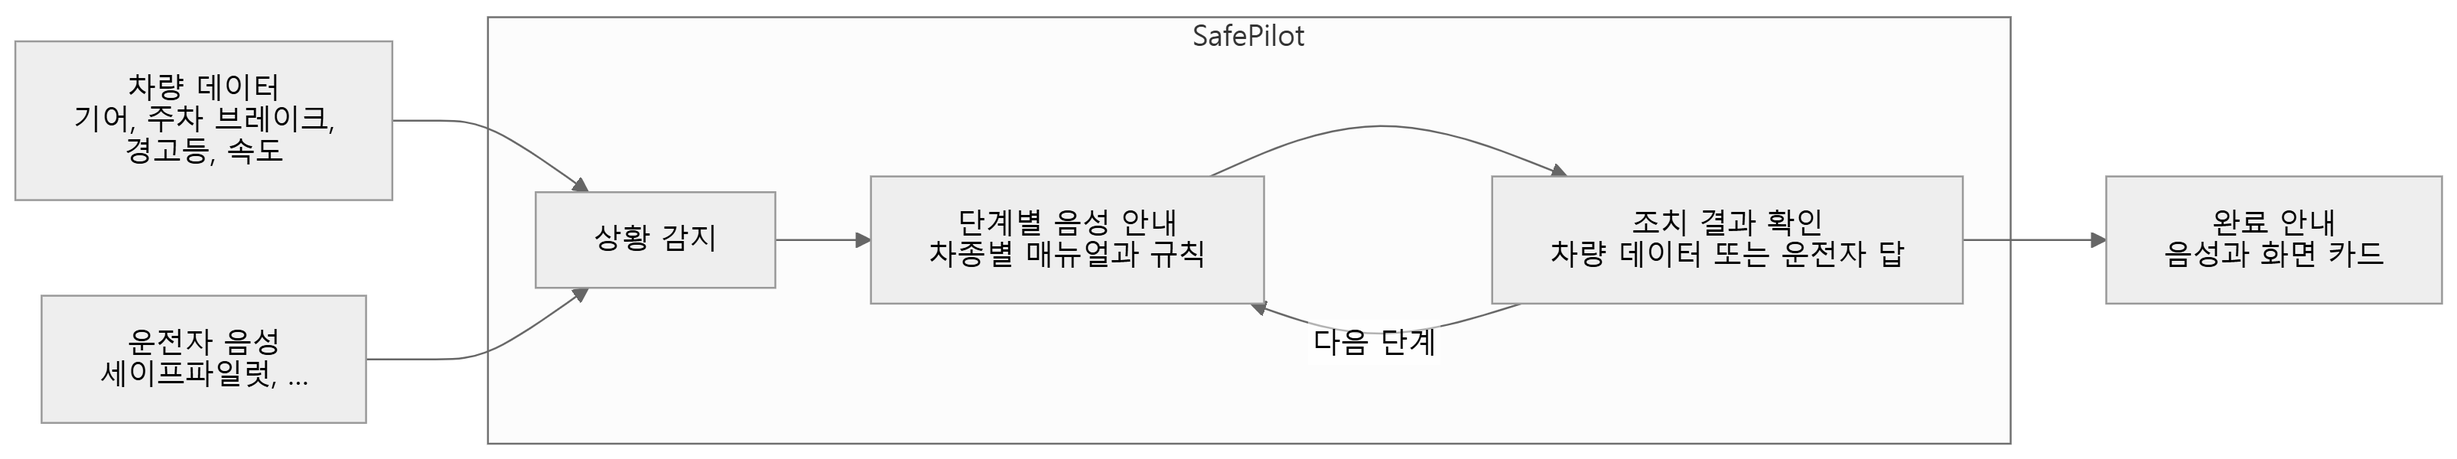
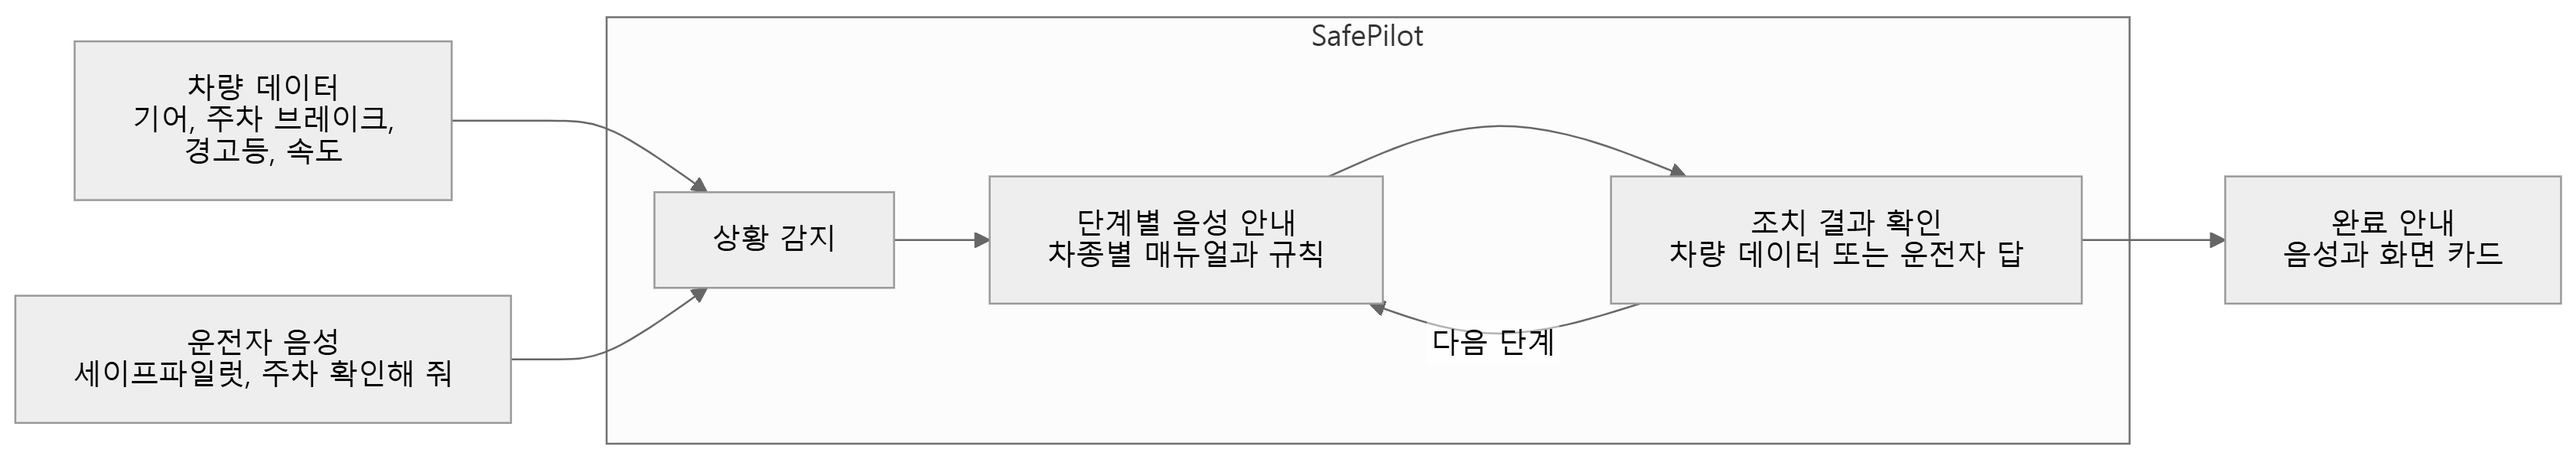
기획서: 2번 중복 정리, 박스 안 keepNext 제거로 빈 페이지 해소(16쪽 -> 13쪽), 동작 구조 그림의 호출 문구 명시

diff --git a/proposal/fill_form.py b/proposal/fill_form.py
@@ -42,7 +42,8 @@ def run(text, bold=False):
 def para(text, kind="body"):
     spacing = '<w:spacing w:before="0" w:after="60" w:line="300" w:lineRule="auto"/>'
     if kind == "heading":
-        ppr = f'<w:pPr><w:keepNext/><w:spacing w:before="120" w:after="60" w:line="300" w:lineRule="auto"/></w:pPr>'
+        # 박스(표 칸) 안에서 keepNext를 쓰면 Word가 칸 전체를 다음 페이지로 넘겨 앞 페이지가 비므로 쓰지 않는다
+        ppr = f'<w:pPr><w:spacing w:before="120" w:after="60" w:line="300" w:lineRule="auto"/></w:pPr>'
         return f"<w:p>{ppr}{run(text, bold=True)}</w:p>"
     if kind == "bullet":
         ppr = f'<w:pPr>{spacing}<w:ind w:left="300" w:hanging="200"/></w:pPr>'
@@ -77,7 +78,7 @@ def image_para(alt, rel_path):
     a = "http://schemas.openxmlformats.org/drawingml/2006/main"
     pic = "http://schemas.openxmlformats.org/drawingml/2006/picture"
     return (
-        '<w:p><w:pPr><w:keepNext/><w:spacing w:before="60" w:after="120"/><w:jc w:val="center"/></w:pPr><w:r><w:drawing>'
+        '<w:p><w:pPr><w:spacing w:before="60" w:after="120"/><w:jc w:val="center"/></w:pPr><w:r><w:drawing>'
         f'<wp:inline distT="0" distB="0" distL="0" distR="0"><wp:extent cx="{cx}" cy="{cy}"/>'
         f'<wp:docPr id="{9000 + n}" name="{name}" descr="{escape(alt)}"/>'
         f'<wp:cNvGraphicFramePr><a:graphicFrameLocks xmlns:a="{a}" noChangeAspect="1"/></wp:cNvGraphicFramePr>'

diff --git a/proposal/draft.md b/proposal/draft.md
@@ -13,10 +13,7 @@ Pleos Connect 차량 데이터로 주차, 정비, 사고 등 운전자가 마주
 
 **대상 고객**
 
-- 초보 운전자: 처음 겪는 상황에서 무엇을 해야 하는지 모릅니다.
-- 고령 운전자: 운전석에서 매뉴얼을 찾거나 화면으로 검색하기가 부담스럽습니다.
-- 차량 관리에 익숙하지 않은 운전자: 정비 권유가 내 차에 정말 필요한지 판단할 근거가 없습니다.
-- 숙련된 운전자: 자주 겪지 않는 상황에서는 경험이 많아도 당황하기 쉽습니다.
+초보 운전자, 고령 운전자, 차량 관리에 익숙하지 않은 운전자, 그리고 자주 겪지 않는 상황 앞에서는 숙련된 운전자도 대상입니다.
 
 **불편한 순간**
 
@@ -29,11 +26,8 @@ Pleos Connect 차량 데이터로 주차, 정비, 사고 등 운전자가 마주
 
 **해결이 필요한 이유**
 
-문제는 정보가 없는 것이 아니라, 필요한 순간에 운전자가 그 정보를 떠올리지 못한다는 데 있습니다.
-
-- 놓친 줄 모릅니다: 매뉴얼과 검색은 운전자가 문제를 알아차린 뒤에야 쓸 수 있지만, 무언가를 놓친 순간에는 놓쳤다는 사실부터 모릅니다.
-- 찾기 어렵습니다: 알아차리더라도 운전석에서 매뉴얼이나 인터넷 검색으로 필요한 내용을 즉시 찾기 어렵습니다.
-- 내 차를 모릅니다: 검색 결과는 차종과 차량의 현재 상태를 알지 못합니다. 내 차의 상태는 차량 데이터와 연결되어야만 확인할 수 있습니다.
+- 운전자가 먼저 찾아야 합니다: 매뉴얼과 검색은 문제를 알아차린 뒤에야 쓸 수 있지만, 놓친 순간에는 놓쳤다는 사실부터 모르고, 알아차려도 운전석에서 바로 찾기 어렵습니다.
+- 내 차의 상태를 반영하지 못합니다: 검색 결과는 차종과 차량의 현재 상태를 알지 못하며, 이는 차량 데이터와 연결되어야만 확인할 수 있습니다.
 - 놓치면 안전과 비용 문제로 이어집니다: 확인을 놓치면 안전사고로, 근거 없는 판단은 불필요한 비용으로 이어집니다.
 
 그래서 차량 데이터로 안내가 필요한 순간을 먼저 알아채 운전자에게 알려 주고, 검증된 매뉴얼 근거로 안전하고 합리적인 판단을 돕는 운전 파트너가 필요합니다.
